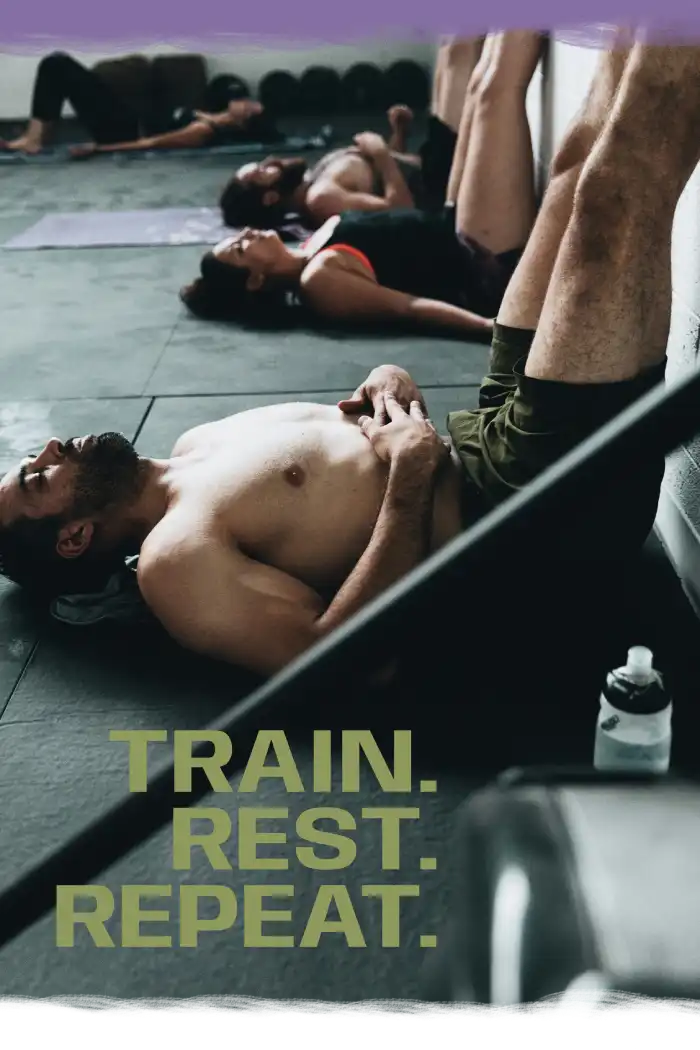
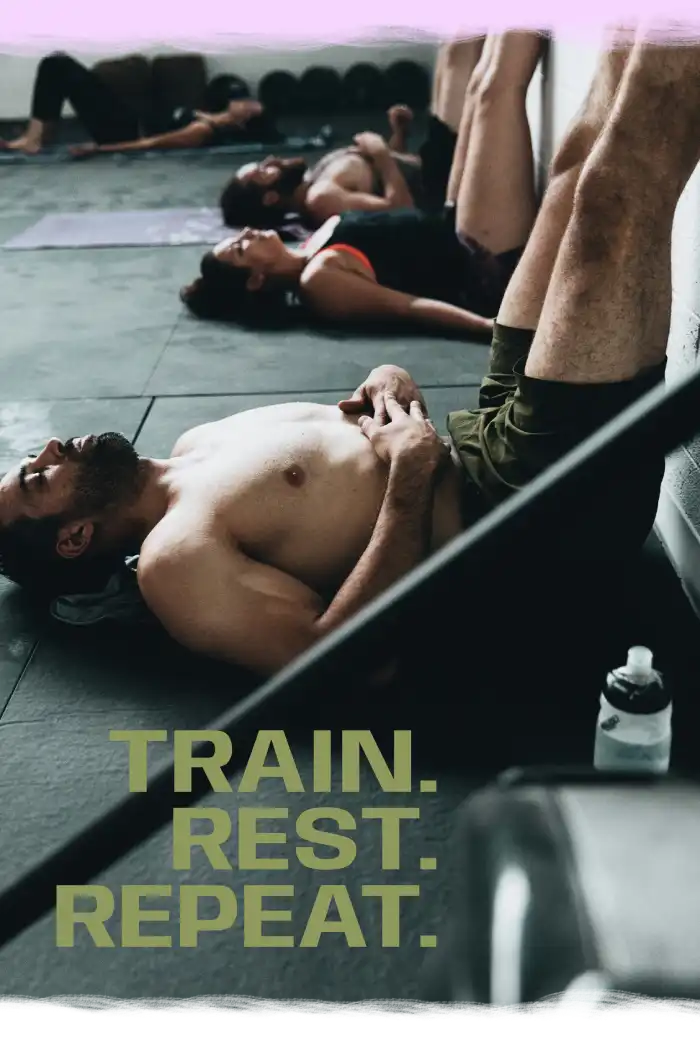
Update diet section for accessibility

Changed region(s): [[0.0, 0.0, 1.0, 0.061]]

diff --git a/assets/css/style.css b/assets/css/style.css
@@ -274,9 +274,9 @@ main {
 
 /* Diet Section */
 #diet {
-  background-color: #856ea2;
+  background-color: #F6D6FF;
   width: 100%;
-  color: #ffeffc;
+  color: #74009E;
   display: flex;
   flex-direction: column;
   position: relative;
@@ -2284,7 +2284,7 @@ footer {
     text-align: center;
     font-size: 120%;
     padding: 10px 0 0 0;
-    color: #cdb3ec;
+    color: #d2c9ff;
   }
 
   #recovery-desktop {
